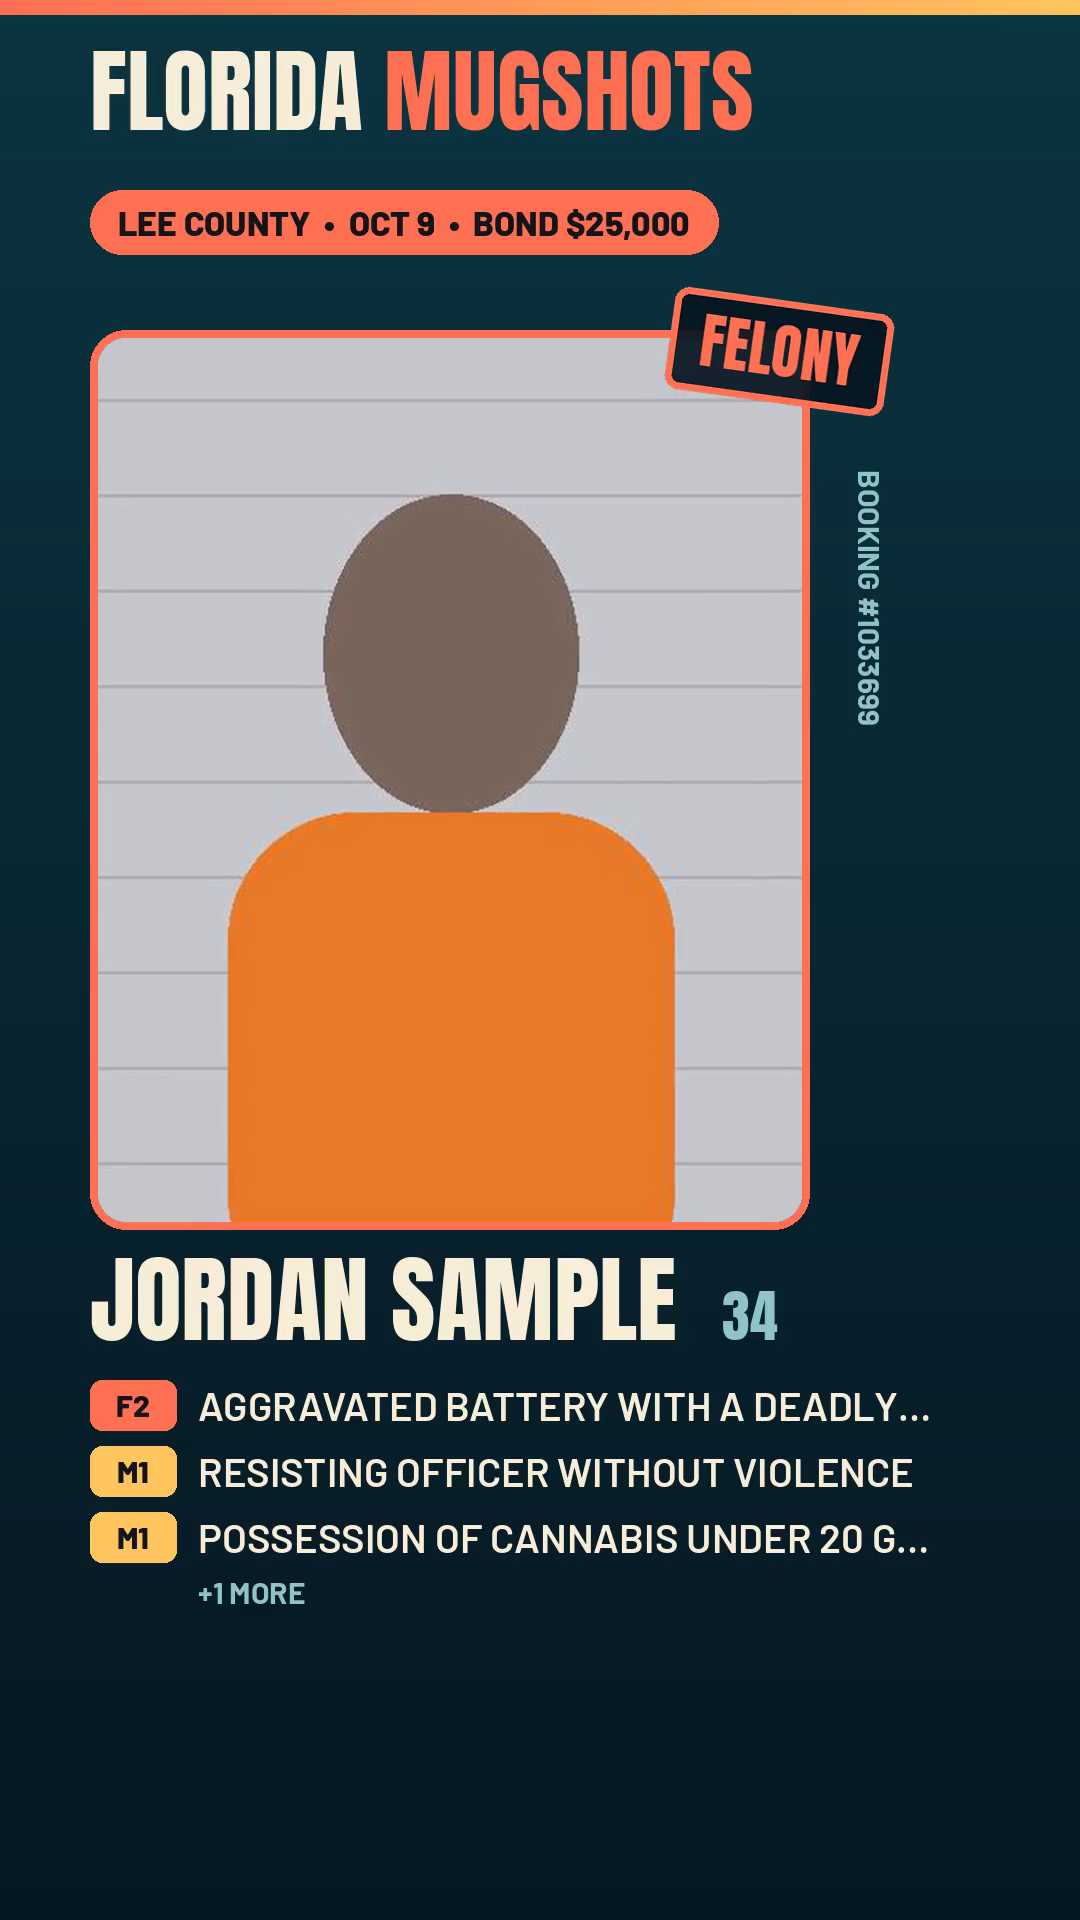
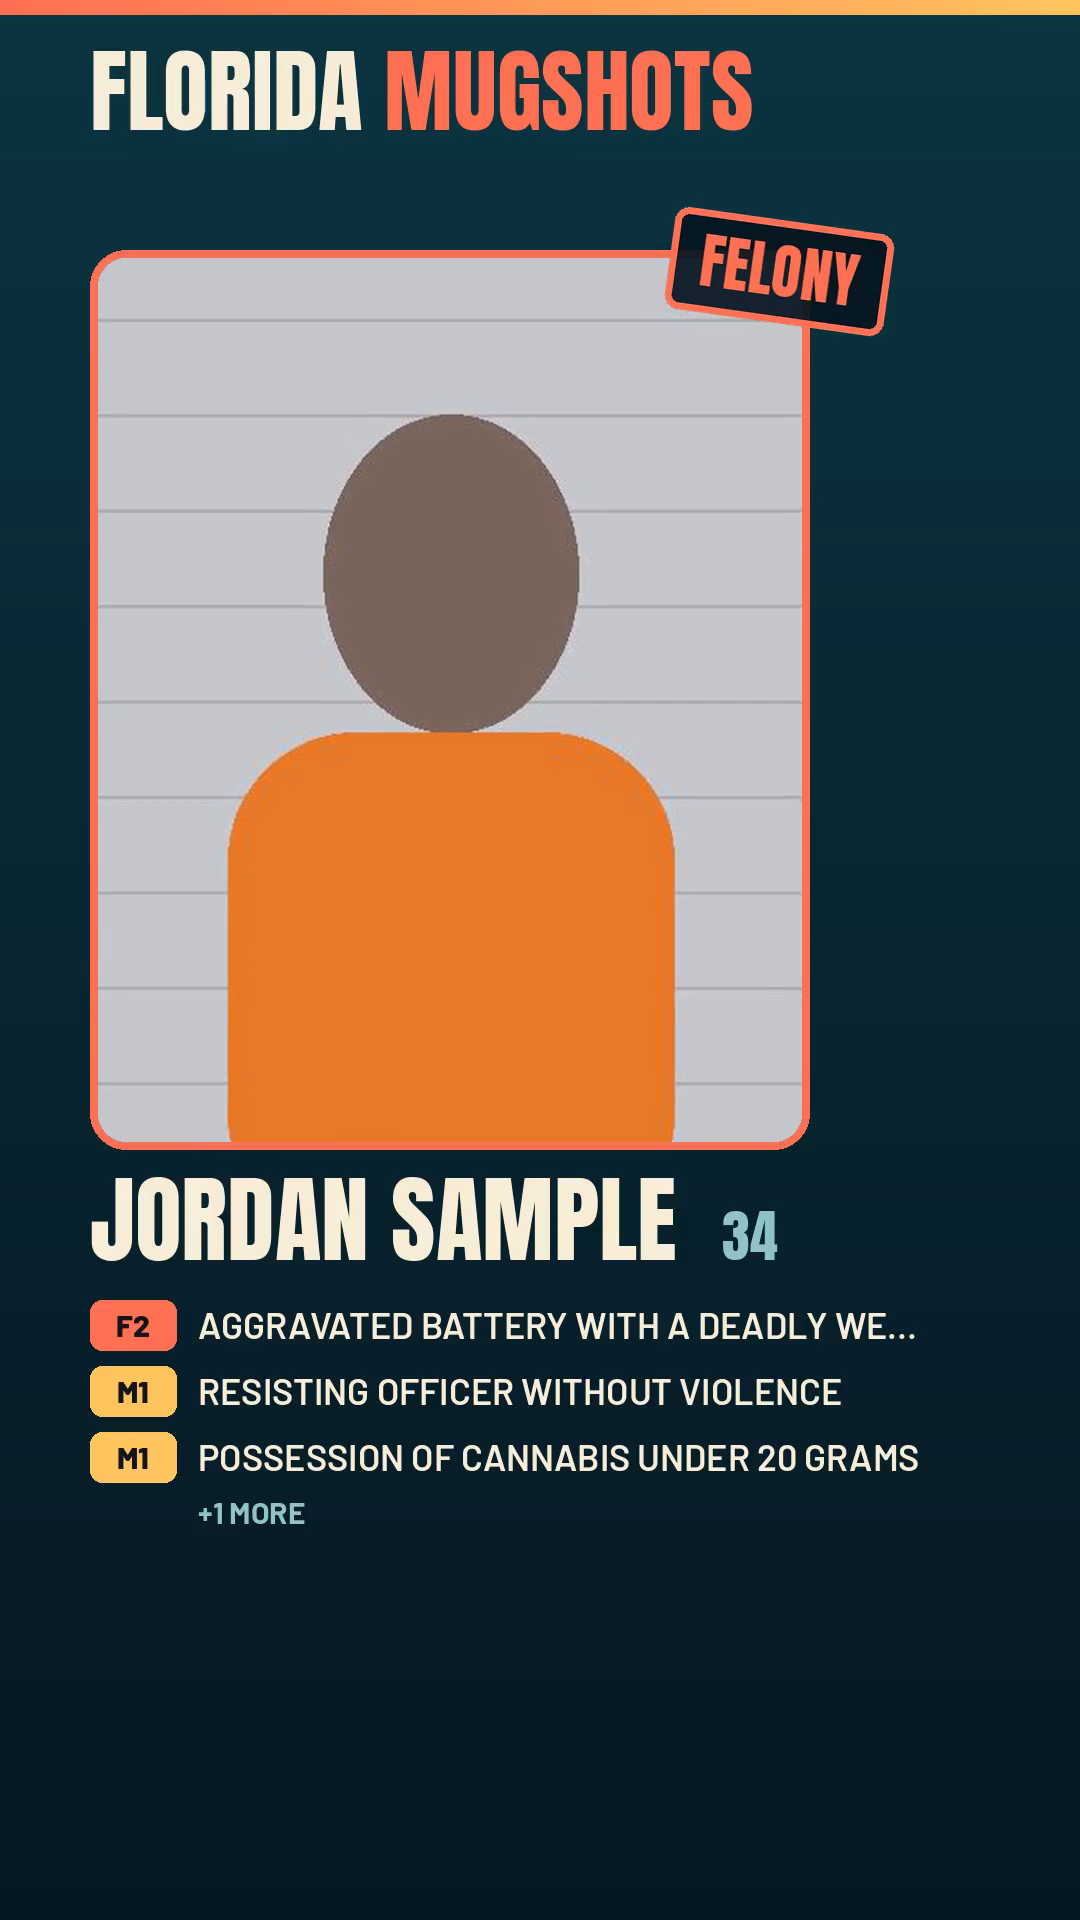
Reel: drop the county/date pill and booking number column, move the photo up

Changed region(s): [[0.0611, 0.5625, 0.8556, 0.8438], [0.0611, 0.0938, 0.825, 0.5], [0.7944, 0.25, 0.825, 0.375]]

diff --git a/bot/reels.py b/bot/reels.py
@@ -3,6 +3,7 @@
 The Florida look, deliberately unlike Minneapolis (centered, black, yellow/red DejaVu):
 Gulf-teal gradient, sunset-coral accents, sand text, Anton + Barlow, left-aligned layout, rounded photo
 with a slow zoom-OUT, a tilted charge-level stamp on the photo, and a degree chip per charge.
+County, date and bond live in the caption, not on the Reel.
 
 Layers, bottom to top: background card (gradient + all text) -> zooming photo -> overlay (rounded corners,
 border, stamp). Text stays clear of Instagram's Reel UI: nothing below y=1640 or right of x=940 under y=1000.
@@ -11,7 +12,6 @@ Reels are written to reels/ and served only from GitHub Pages (never committed).
 import os
 import subprocess
 import tempfile
-from datetime import date
 from functools import lru_cache
 
 from PIL import Image, ImageDraw, ImageFont
@@ -20,10 +20,9 @@ from . import config, posting_queue
 
 W, H, FPS = 1080, 1920, 30
 MARGIN = 90
-PX, PY, PW, PH = 90, 330, 720, 900       # Photo window (mugshots are 4:5)
+PX, PY, PW, PH = 90, 250, 720, 900       # Photo window (mugshots are 4:5)
 RADIUS, BORDER = 36, 8
 C = config.COLORS
-MONTHS = "JAN FEB MAR APR MAY JUN JUL AUG SEP OCT NOV DEC".split()
 
 
 @lru_cache(maxsize=None)
@@ -102,22 +101,6 @@ def _pill(d, x, y, text, fill=None, size=34):
 def _background(b):
     img, d = _canvas(W, H)
     _header(d, 130)
-
-    # Pill: county, booking date, bond
-    booked = date.fromisoformat(b["booked"])
-    pill = [f"{b['county'].upper()} COUNTY", f"{MONTHS[booked.month - 1]} {booked.day}"]
-    if b.get("bond"):
-        pill.append(f"BOND ${b['bond']:,.0f}")
-    _pill(d, MARGIN, 190, "  •  ".join(pill))
-
-    # Booking number, running down the empty column right of the photo
-    label = f"BOOKING #{b['booking_number']}" if b.get("booking_number") else ""
-    if label:
-        lf = font("Barlow-Bold.ttf", 30)
-        strip = Image.new("RGBA", (int(d.textlength(label, font=lf)) + 4, 40), (0, 0, 0, 0))
-        ImageDraw.Draw(strip).text((0, 20), label, font=lf, fill=C["muted"] + (255,), anchor="lm")
-        strip = strip.rotate(-90, expand=True)
-        img.paste(strip, (PX + PW + 40, PY + 140), strip)
 
     # Name + age
     y = PY + PH + 110
@@ -306,7 +289,7 @@ def render_news_reel(card, out_path, seconds=config.REEL_SECONDS):
 
 
 SAMPLE = {
-    "id": "sample-1", "booking_number": "1033699", "county": "Lee", "booked": "2026-10-09", "name": "SAMPLE, JORDAN ALEX", "age": 34,
+    "id": "sample-1", "county": "Lee", "booked": "2026-10-09", "name": "SAMPLE, JORDAN ALEX", "age": 34,
     "bond": 25000.0, "charges": [
         {"desc": "Aggravated battery with a deadly weapon", "level": "Felony", "degree": "SECOND"},
         {"desc": "Resisting officer without violence", "level": "Misdemeanor", "degree": "FIRST"},
